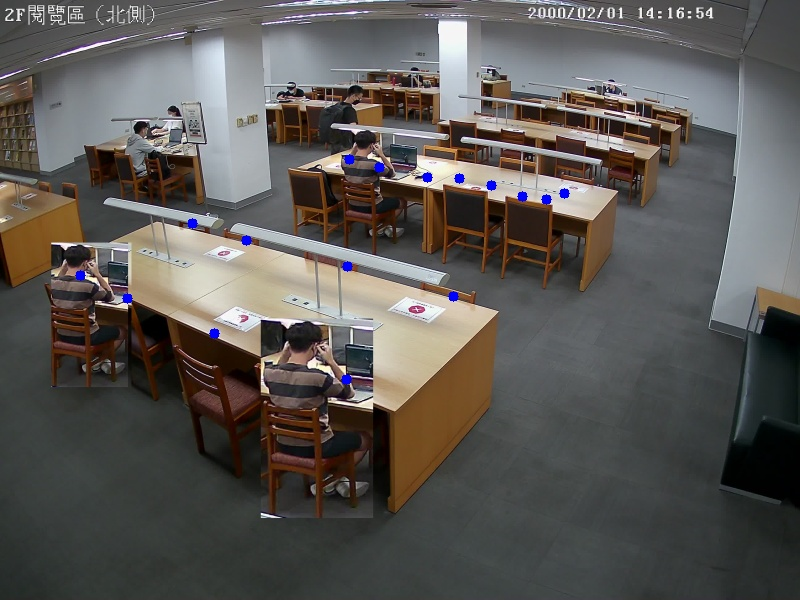
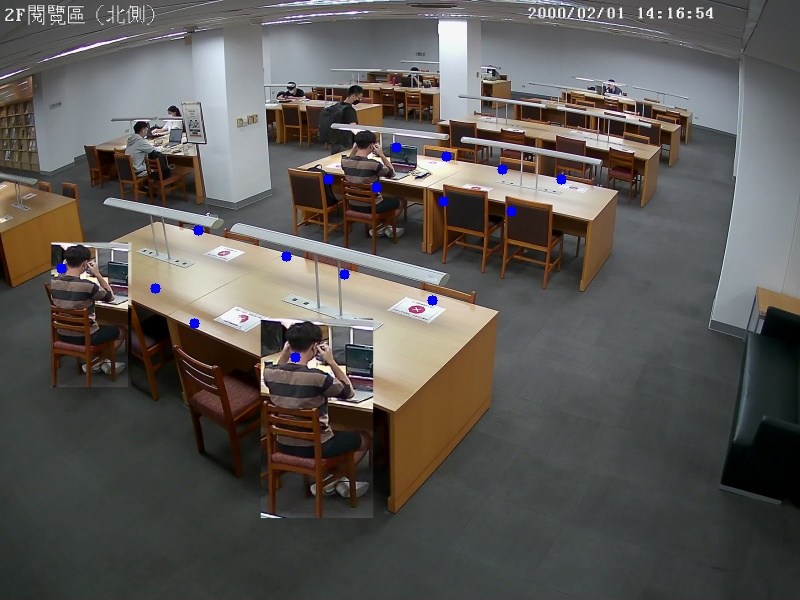
240922 tmp2

diff --git a/step_2_eat_pic_to_gen_mapping.py b/step_2_eat_pic_to_gen_mapping.py
@@ -622,7 +622,8 @@ class Secne_Table_chair:
             self.scene_state_history = [ list() for _ in range(self.table_numbers())]
             for __table_id in range(self.table_numbers()):
                 def _new_queue():
-                    _queue_len = 5  # 狀態機 queue長度 (state machine len)
+                    # TODO:  QUEUE LEN ...
+                    _queue_len = 7  # 狀態機 queue長度 (state machine len)
                     _queue = My_Queue(_queue_len)
                     [_queue.enqueue(TB_State.UNDEFINE) for _ in range(_queue_len)]
                     return _queue
@@ -806,7 +807,7 @@ if __name__ == "__main__":
     parser.add_argument("--polygon_pic", default="polygon.pic", type=str, help="polygon txt path")
     parser.add_argument("--table_pic", default="table_N.pic", type=str, help="polygon txt path")
     parser.add_argument("--chair_pic", default="table_N_chair.pic", type=str, help="polygon txt path")
-    parser.add_argument("--seat_over_table_rate", default=1.4, type=float, help="seat's side:table' side (side is shorter side).")
+    parser.add_argument("--seat_over_table_rate", default=1.2, type=float, help="seat's side:table' side (side is shorter side).")
     parser.add_argument("--check_preAnchor", action="store_true", help="display predefine data.")
     parser.add_argument("--verbose", action="store_true", help="show debug message")
     parser.add_argument("--random_pick_test_image", action="store_true", help="random pick test image")
@@ -1039,6 +1040,12 @@ if __name__ == "__main__":
                     # ===================================================================
                     #3
                     the_truth_state = _a_sit_state_machine.get_truth_state(_a_stt_state_history)
+                    print("old ver output: ", the_truth_state)
+                    _continue_last_time_repeat = 3
+                    the_truth_state = _a_sit_state_machine.get_truth_state_v2(_continue_last_time_repeat,
+                                                                              _a_stt_state_history)
+                    print("new ver output: ", the_truth_state)
+                    print("===================================")
                     # New ---- 根據狀態機的真實狀態，決定要印出的文字
                     if the_truth_state == "OCCUPIED":
                         draw_norm_polygon_on_image(field_output_frame2, _w_bboxn, whole_sit_bbox_color_occupied,
@@ -1180,7 +1187,9 @@ if __name__ == "__main__":
             for _in_idx in range(len(val)):  ##  根據每個位置的狀態機 來決定顏色
                 a_seat_single_queue = _a_table_queue_history[_in_idx]
                 a_seat_single_st = _a_table_state_machines[_in_idx]
-                a_seat_truth_label = a_seat_single_st.get_truth_state(a_seat_single_queue)
+                #a_seat_truth_label = a_seat_single_st.get_truth_state(a_seat_single_queue)
+                a_seat_truth_label = a_seat_single_st.get_truth_state_v2(_continue_last_time_repeat,
+                                                                             a_seat_single_queue)
                 if a_seat_truth_label == "OCCUPIED":
                     _a_seat_color_empty_ready.append(_seat_red__)
                 elif a_seat_truth_label == "AVAILABLE":

diff --git a/utilsv2/state_machine/StateMachine.py b/utilsv2/state_machine/StateMachine.py
@@ -33,6 +33,50 @@ class TB_StateMachine:
         self.state = State.VACANT
         return 0
 
+    def to_undefine(self):
+        self.state = State.UNDEFINE
+        return 0
+
+    def get_truth_state_v2(self, n, queue: Queue):
+        """
+        檢查 queue 中最後 n 個元素是否相同
+        :param n: 檢查的最後 n 個元素，連續 n 個元素都相同的話 回傳 該狀態。
+        :return: True 如果最後 n 個元素相同，False 否則
+        """
+        ll = queue._get_queue_lst().copy()
+
+        # 如果 queue 長度小於 n，無法進行判斷
+        if len(ll) < n:
+            # 如果列表為空
+            print(" [狀態判斷錯誤] list < n ({})。".format(n))
+            return -1
+        element_count = Counter(ll)
+        # 檢查最後 n 個元素是否相同
+        last_n_elements = ll[-n:]  # 取得最後 n 個元素
+        print("ALL :", ll)
+        print("last:", last_n_elements)
+
+        # ll[0].value  >> 1
+        # ll[0].name >> 'VACANT'
+
+        if len(set(last_n_elements)) == 1:  # 判斷集合長度是否為 1，表示元素相同)
+            return ll[-1].name  # 直接回傳 連續 n 個狀態相同的狀態
+        else:
+            # return 'VACANT'
+            # 移除 undefine
+            while (1):
+                try:
+                    ll.remove(State.UNDEFINE)
+                except ValueError:
+                    #  not in list Error raised.
+                    break
+            element_count = Counter(ll)
+            if len(element_count):
+                # most_common(1) return 最多的元素
+                most_cnt = element_count.most_common(1)[0][0]
+                return most_cnt.name
+            else:
+                return 'VACANT'
 
     def get_truth_state(self, queue: Queue):
         """
@@ -46,6 +90,7 @@ class TB_StateMachine:
             try:
                 ll.remove(State.UNDEFINE)
             except ValueError:
+                #  not in list Error raised.
                 break
         element_count = Counter(ll)
 
